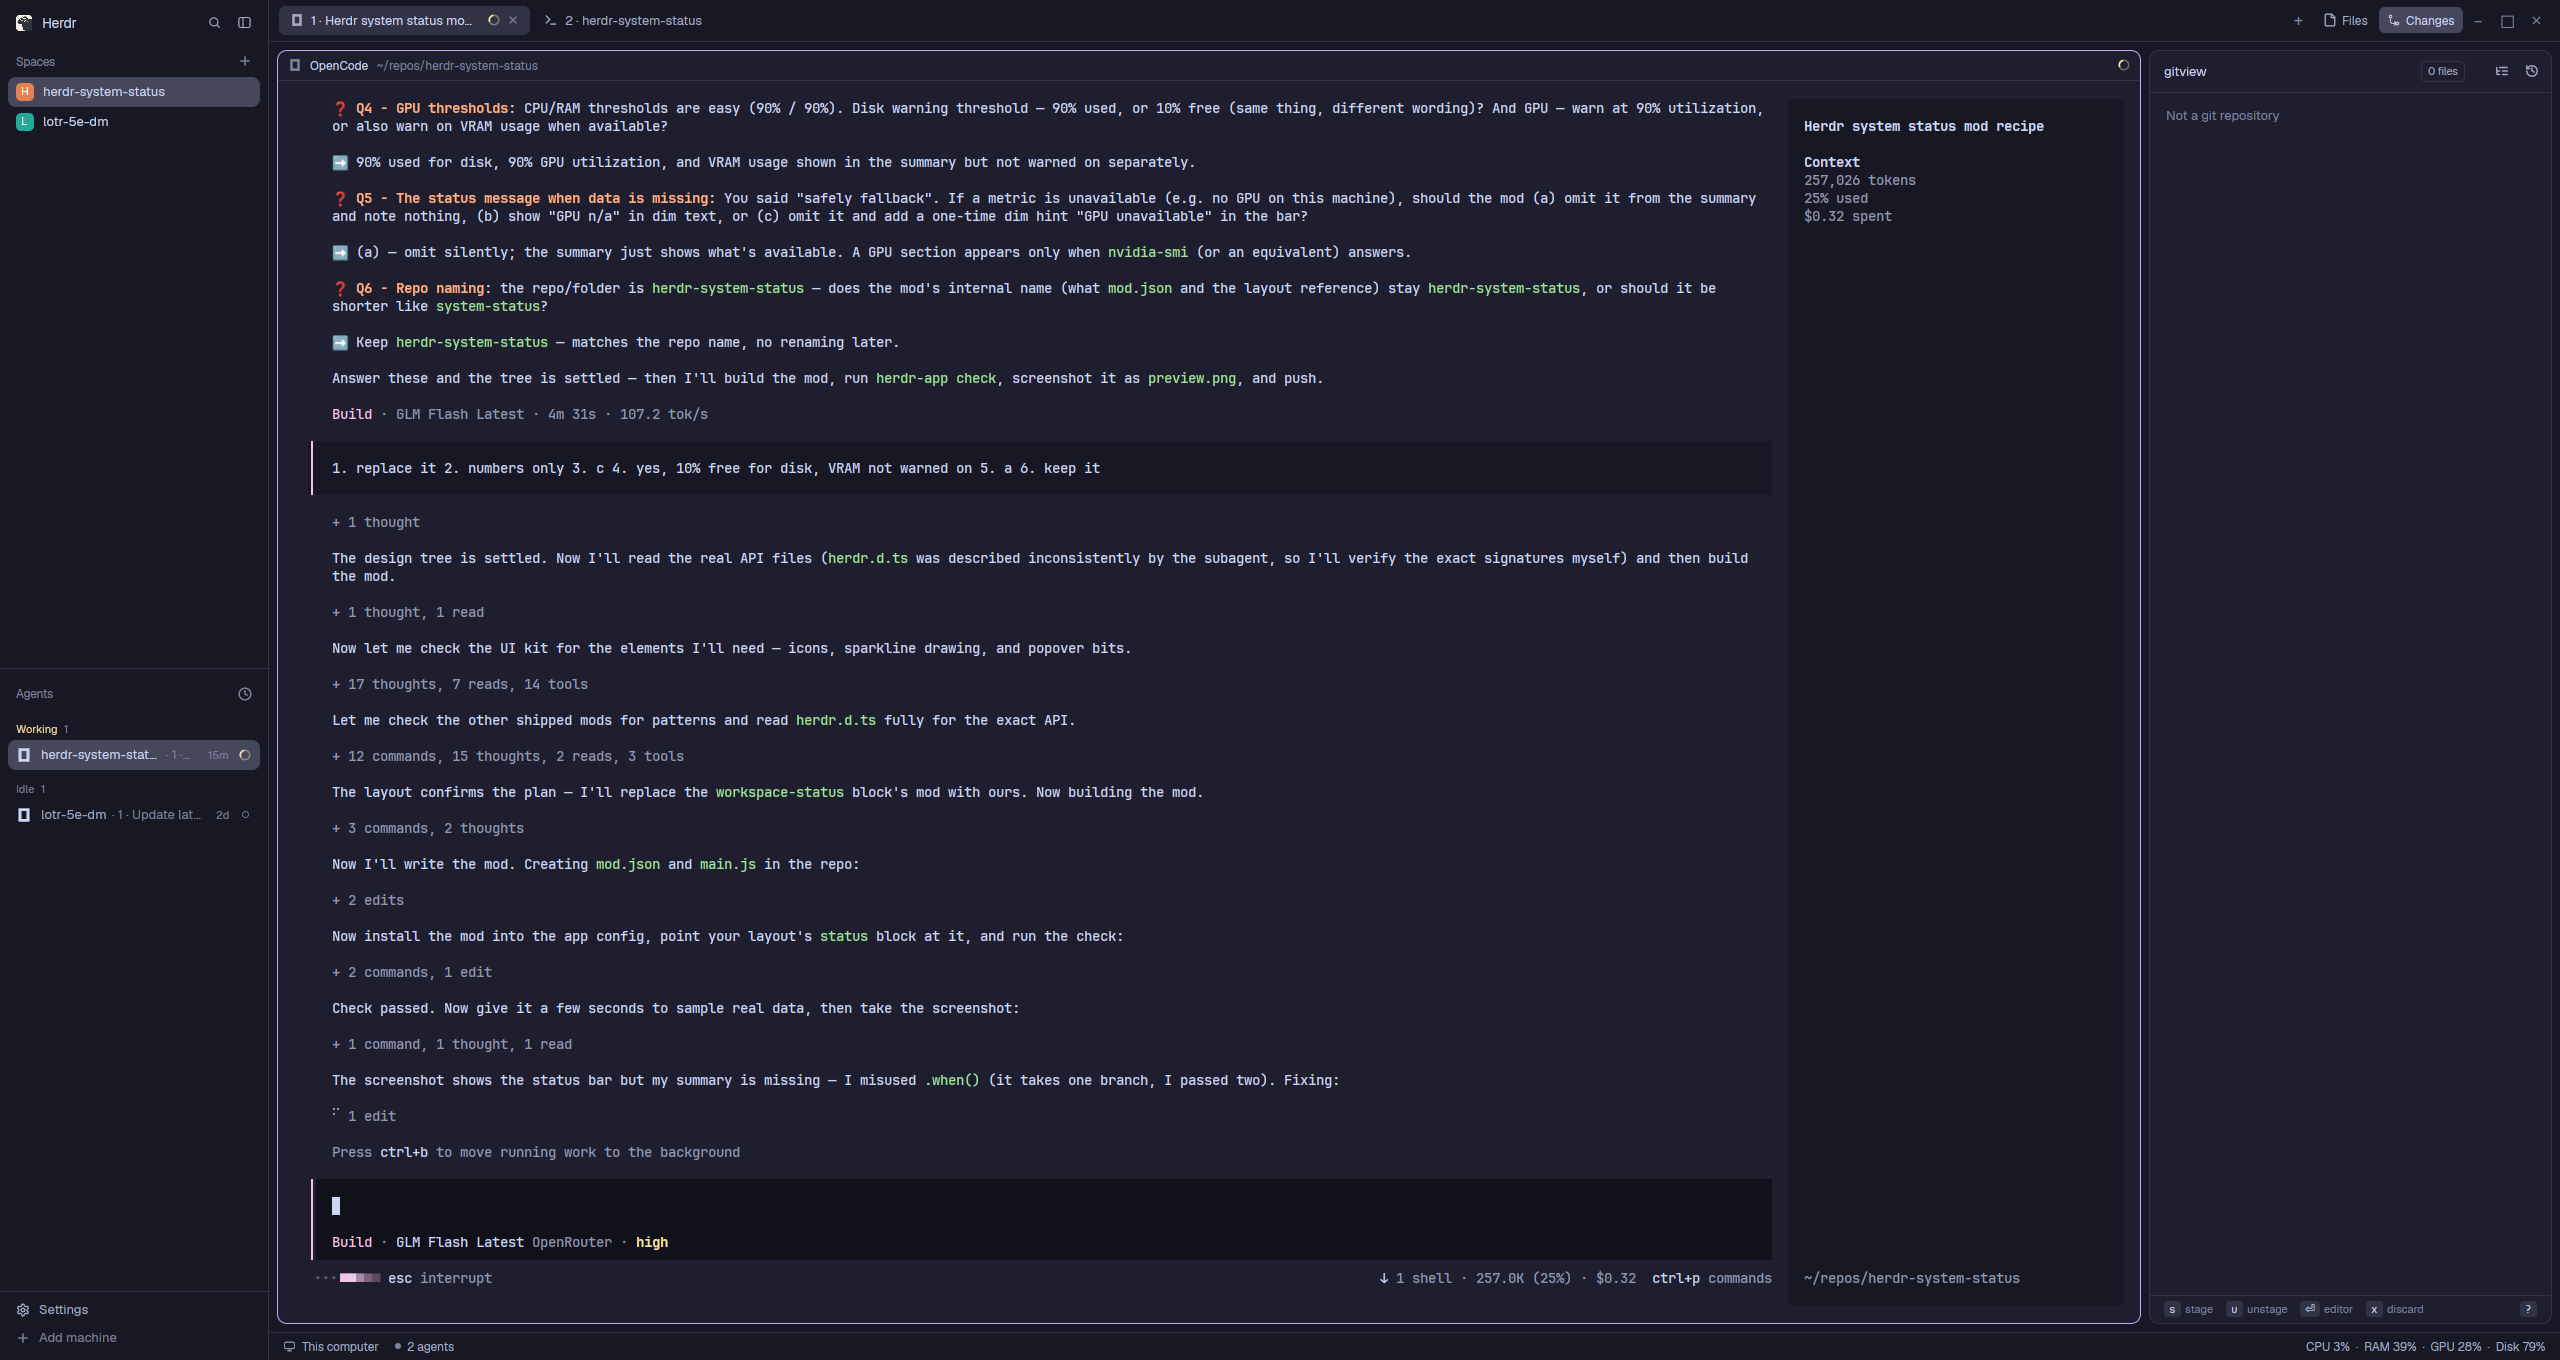
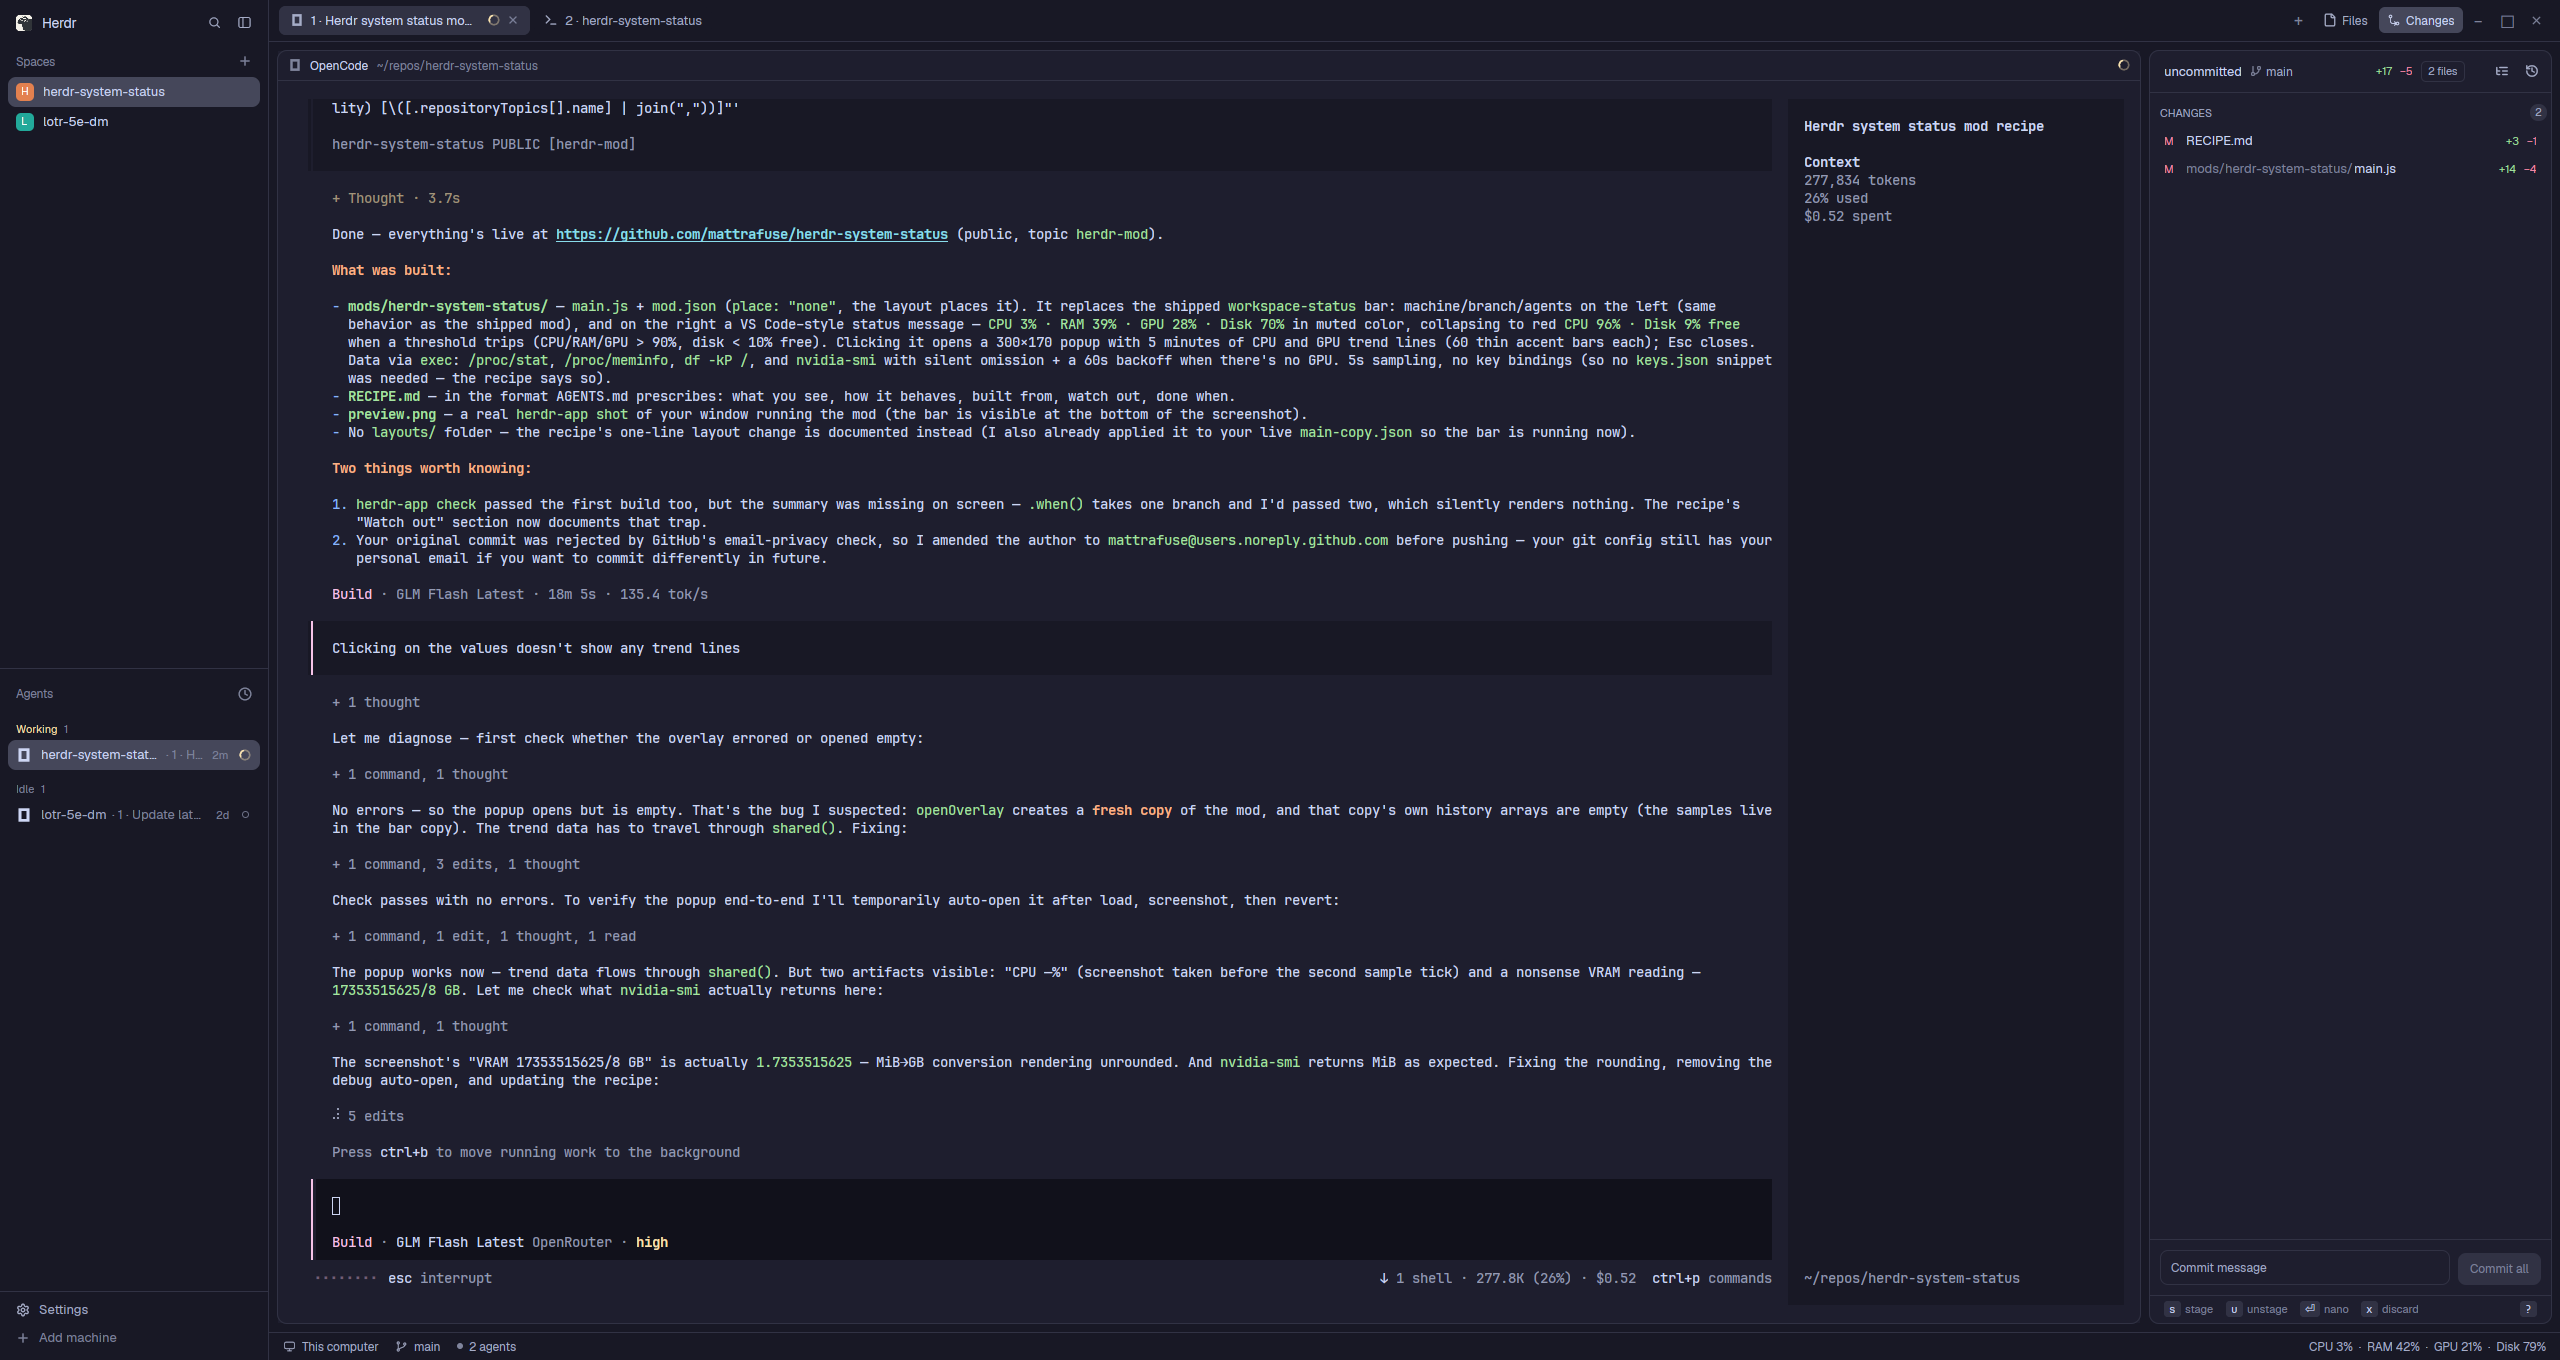
Fix empty trends popup: route history through shared(); round VRAM to 0.1 GB

diff --git a/mods/herdr-system-status/main.js b/mods/herdr-system-status/main.js
@@ -9,15 +9,19 @@
 
 import { View, div, svg } from "gpui-kit";
 import { h_flex, v_flex } from "gpui-base";
-import { agents, spaces, theme, exec, props, openOverlay } from "herdr";
+import { agents, spaces, theme, exec, props, openOverlay, shared, setShared } from "herdr";
 
 const TICK = 5000; // sample cadence, ms
 const HISTORY = 60; // trend lines keep one sample per tick: 5 minutes
 const WARN = 90; // percent where CPU, RAM and GPU turn the message red
 const DISK_FREE_WARN = 10; // warn when free disk space drops below this %
+const STATE = "herdr-system-status"; // shared() key: the bar publishes, the popover reads
 
 export default class SystemStatus extends View {
   init(_props, cx) {
+    // A trends popup is a fresh copy of this mod: its own state is empty, so
+    // it only reads the snapshot the bar copy publishes — it never samples.
+    if (props()?.trends) return;
     this.prevCpu = null; // previous /proc/stat sample
     this.cpu = null; // busy percent 0..100, null until the second tick
     this.ram = null; // { pct, usedGb, totalGb }
@@ -49,7 +53,7 @@ export default class SystemStatus extends View {
           ["--query-gpu=utilization.gpu,memory.used,memory.total", "--format=csv,noheader,nounits"]);
         const f = g.stdout.trim().split("\n")[0].split(",").map((s) => parseFloat(s));
         if (g.code === 0 && f.length >= 3 && !f.some(isNaN)) {
-          this.gpu = { pct: Math.round(f[0]), vramUsedGb: f[1] / 1024, vramTotalGb: f[2] / 1024 };
+          this.gpu = { pct: Math.round(f[0]), vramUsedGb: Math.round((f[1] / 1024) * 10) / 10, vramTotalGb: Math.round((f[2] / 1024) * 10) / 10 };
           this.gpuFails = 0;
           this.gpuNext = 0;
         } else this.gpuMiss();
@@ -64,6 +68,10 @@ export default class SystemStatus extends View {
     while (this.cpuHistory.length > HISTORY) this.cpuHistory.shift();
     while (this.gpuHistory.length > HISTORY) this.gpuHistory.shift();
 
+    setShared(STATE, {
+      cpu: this.cpu, ram: this.ram, disk: this.disk, gpu: this.gpu,
+      cpuHistory: this.cpuHistory, gpuHistory: this.gpuHistory,
+    });
     cx.notify();
   }
 
@@ -168,14 +176,16 @@ export default class SystemStatus extends View {
 
   renderTrends(cx) {
     const t = theme();
+    const s = shared(STATE) ?? {};
     const spark = (data, label) => v_flex().gap(4)
       .child(div().text_size(11).text_color(t.muted).child(label))
       .child(h_flex().h(28).gap(1).items_end().children(
         data.map((v) => div().w(3).h(Math.max(2, Math.round((v / 100) * 28))).rounded(1).bg(t.accent))));
     return v_flex().p(10).gap(10).bg(t.popover).border(1).border_color(t.border).rounded(8).w(280)
       .child(div().text_size(12).font_semibold().text_color(t.foreground).child("Last 5 minutes"))
-      .child(spark(this.cpuHistory, `CPU  ${this.cpu ?? "--"}%`))
-      .when(Boolean(this.gpu), (el) => el.child(spark(this.gpuHistory, `GPU  ${this.gpu.pct}%  ·  VRAM ${this.gpu.vramUsedGb}/${Math.round(this.gpu.vramTotalGb)} GB`)))
+      .when(!s.cpuHistory?.length, (el) => el.child(div().text_size(11).text_color(t.muted).child("Gathering samples…")))
+      .when(Boolean(s.cpuHistory?.length), (el) => el.child(spark(s.cpuHistory, `CPU  ${s.cpu ?? "--"}%`)))
+      .when(Boolean(s.gpu), (el) => el.child(spark(s.gpuHistory, `GPU  ${s.gpu.pct}%  ·  VRAM ${s.gpu.vramUsedGb}/${Math.round(s.gpu.vramTotalGb)} GB`)))
       .child(div().text_size(10.5).text_color(t.dim).child("Esc closes"));
   }
 }

diff --git a/RECIPE.md b/RECIPE.md
@@ -31,10 +31,12 @@ One 28px bar along the bottom of the window: `theme().chrome` background, a 1px 
 - Shipped art: `mods/workspace-chrome/monitor.svg`, `server.svg`, `branch.svg` — drawn with `svg(...).size(13)`, tinted by the surrounding text color.
 - Programs it runs through `exec`, once per tick: `cat /proc/stat`; `awk` over `/proc/meminfo` printing `MemTotal`, `MemAvailable`, `MemFree`; `df -kP /`; and `nvidia-smi --query-gpu=utilization.gpu,memory.used,memory.total --format=csv,noheader,nounits` (only when past its retry gate).
 - Instance state: the previous `/proc/stat` sample (for the CPU delta), 60-sample CPU and GPU histories, a consecutive-failure count and a retry timestamp for `nvidia-smi` (three misses → back off 60 s; a later success brings the GPU row back and clears the gate).
-- The popover is the same mod re-rendered: `openOverlay({ kind: "popup", mod: "herdr-system-status", props: { trends: true }, width: 300, height: 170 })`; `render` checks `props()?.trends` and draws the trends view instead of the bar. Popups close themselves on Esc or an outside click, so the overlay needs no close button.
+- The popover is the same mod re-rendered: `openOverlay({ kind: "popup", mod: "herdr-system-status", props: { trends: true }, width: 300, height: 170 })` opens at the pointer; `render` checks `props()?.trends` and draws the trends view instead of the bar. Popups close themselves on Esc or an outside click, so the overlay needs no close button.
+- The trend data travels through shared state: every tick the bar copy publishes a snapshot with `setShared("herdr-system-status", {...})` — current cpu/ram/disk/gpu plus both histories — and the popup copy reads it back with `shared("herdr-system-status")`. `setShared` re-renders every mod, which is what keeps the popup's lines growing while it is open.
 
 ## Watch out
 
+- `openOverlay` creates a **fresh copy** of the mod: its instance state is empty, so a popup that reads `this.cpuHistory` renders with no trend lines and no error anywhere. Route the data through `shared()` (the bar publishes, the popup reads), and skip sampling in the popup copy — its `init` returns early on `props()?.trends`.
 - `.when(condition, branch)` takes **one** branch function. Passing a second as an else silently renders nothing — the first build's summary vanished with no error anywhere. Use two `.when` calls with complementary conditions.
 - `herdr-app check` does not lay out the mod or run deferred work, so it passes a mod that renders empty; try it in the app before calling it done.
 - Trend lines are divs (thin bars), not paths: `PathBuilder` builds a `Path` and `window.paint_path(path, color)` paints one, but there is no element factory that consumes a `Path` outside that one window method, and bars are simpler.
